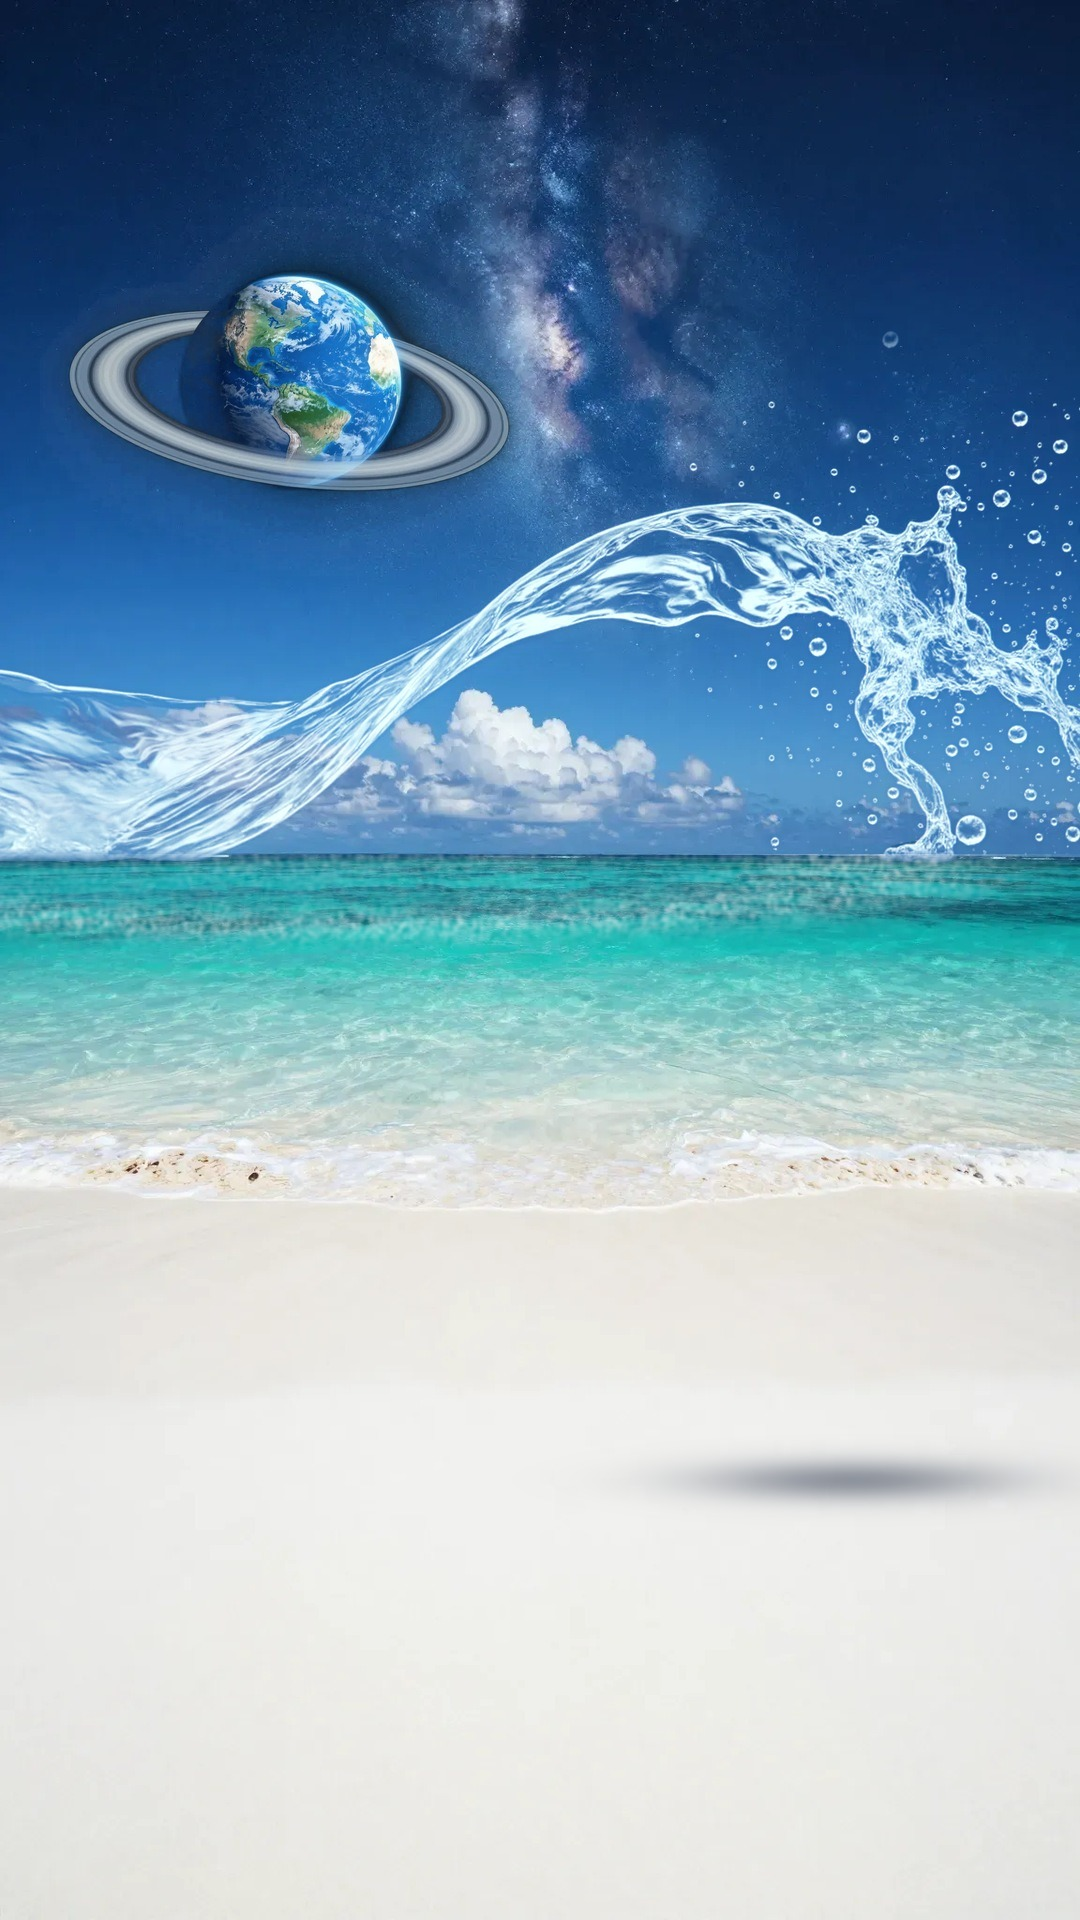
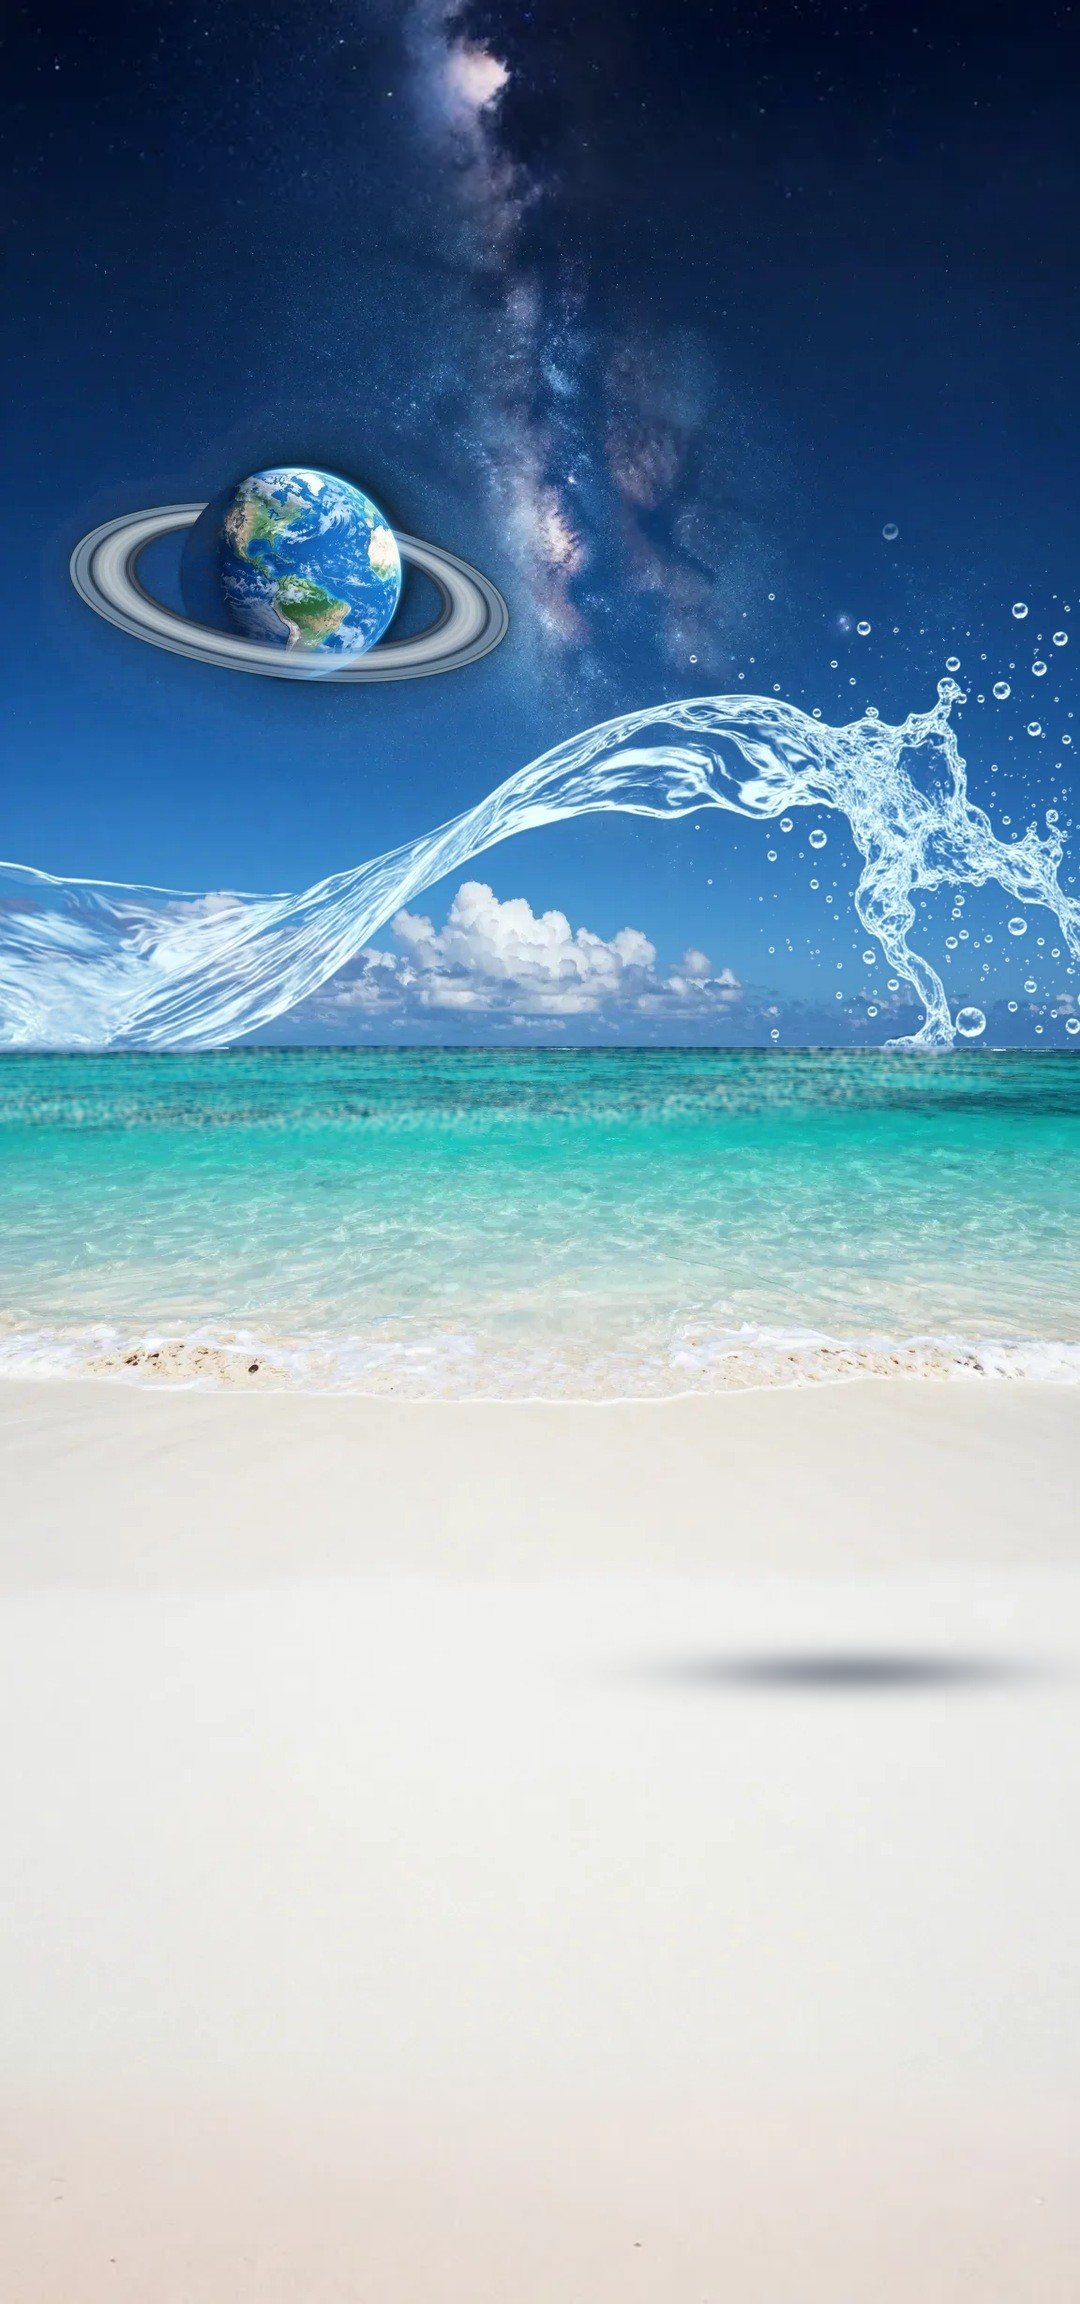
Focus Aero: taller background (outpainted sky and sand) so the whole scene fits tall phones instead of cropping the sides
Claude-Session: https://claude.ai/code/session_01HNXf8HvpZKxZ2L1VgheEA9

Changed region(s): [[0.0, 0.0, 1.0, 0.625], [0.6417, 0.7188, 0.9472, 0.7812], [0.9778, 0.0938, 1.0, 0.1562]]

diff --git a/App.js b/App.js
@@ -2002,7 +2002,8 @@ const FOCUS_LOOKS = [["aero", "Frutiger Aero"], ["classic", "Classic desk"]];
 // full), a door on the beach (bathroom: its porthole fills), a fruit bowl on the sand (eat), a glass of water up close.
 // Generated from tools/aero (scene.html → render3.js): the world, and each need at 8 fill levels, cropped.
 const AERO = {
-  size: [1080, 1920], levels: [0,  15,  30,  45,  60,  75,  90,  100],
+  size: [1080, 1920], // the scene the layers are placed in
+  plate: [1080, 2304], plateTop: 192, // the background is taller (outpainted sky and sand) so tall phones fit the full width
   bg: require("./assets/aero3/bg.jpg"), gull: require("./assets/aero3/sprite-gull.png"), dolphin: require("./assets/aero3/dolphin.webp"), dolphinGlow: require("./assets/aero3/d_glow.webp"),
   dolphinFrames: [ // the dolphin turns away to leave as walk time comes due (frames from a generated video)
     require("./assets/aero3/d-00.webp"), require("./assets/aero3/d-01.webp"), require("./assets/aero3/d-02.webp"), require("./assets/aero3/d-03.webp"), require("./assets/aero3/d-04.webp"), require("./assets/aero3/d-05.webp"), require("./assets/aero3/d-06.webp"), require("./assets/aero3/d-07.webp"), require("./assets/aero3/d-08.webp"), require("./assets/aero3/d-09.webp"), require("./assets/aero3/d-10.webp"), require("./assets/aero3/d-11.webp"), require("./assets/aero3/d-12.webp"), require("./assets/aero3/d-13.webp"), require("./assets/aero3/d-14.webp"), require("./assets/aero3/d-15.webp"), require("./assets/aero3/d-16.webp"), require("./assets/aero3/d-17.webp"),
@@ -2034,8 +2035,9 @@ function AeroFocus({ needs, left, onPlay, onEnd, look, setLook }) {
   const ins = useSafeAreaInsets();
   const win = useWindowDimensions();
   const W = win.width, H = win.height;
-  const s = Math.max(W / AERO.size[0], H / AERO.size[1]);
-  const ox = (W - AERO.size[0] * s) / 2, oy = (H - AERO.size[1] * s) / 2;
+  // Fill the screen with the tall plate; on 19.5:9 phones that means the full width shows, on shorter ones a bit of sky/sand trims.
+  const s = Math.max(W / AERO.plate[0], H / AERO.plate[1]);
+  const ox = (W - AERO.size[0] * s) / 2, oy = (H - AERO.plate[1] * s) / 2 + AERO.plateTop * s;
   const by = Object.fromEntries(needs.map((n) => [n.key, n]));
   const [info, setInfo] = useState(null); // { key, done }: the full-info card, after a swipe
   const [showLooks, setShowLooks] = useState(false);
@@ -2045,7 +2047,7 @@ function AeroFocus({ needs, left, onPlay, onEnd, look, setLook }) {
   const iN = info && by[info.key];
   return (
     <View style={{ flex: 1, backgroundColor: "#0b86e6", overflow: "hidden" }}>
-      <Image source={AERO.bg} style={{ position: "absolute", left: ox, top: oy, width: AERO.size[0] * s, height: AERO.size[1] * s }} />
+      <Image source={AERO.bg} style={{ position: "absolute", left: ox, top: oy - AERO.plateTop * s, width: AERO.plate[0] * s, height: AERO.plate[1] * s }} />
       <AeroLife s={s} ox={ox} oy={oy} W={W} />
       {AERO_ORDER.filter((k) => by[k]).map((k, i) => <AeroThing key={k} n={by[k]} i={i} s={s} ox={ox} oy={oy} left={left(by[k])} onPlay={onPlay} onInfo={onInfo} />)}
       <Pressable onPress={onEnd} onLongPress={() => setShowLooks((v) => !v)} style={[st.aeroEnd, { top: ins.top + 10, zIndex: 60 }]} accessibilityRole="button" accessibilityLabel="End focus" accessibilityHint="Hold to choose a look" hitSlop={10}>
